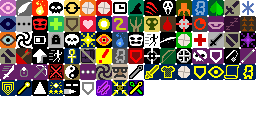
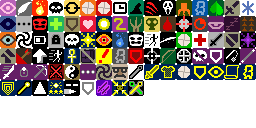
0.3.4_fix2:版本号+1；修复虚幻之刃即死 Bug，制作新物品“空的蜂蜜罐”；开始制作新转职“流转师”

Changed region(s): [[0.5, 0.625, 0.5625, 0.75]]

diff --git a/core/src/main/java/com/shatteredpixel/shatteredpixeldungeon/items/EmptyPot.java b/core/src/main/java/com/shatteredpixel/shatteredpixeldungeon/items/EmptyPot.java
@@ -1,0 +1,131 @@
+/*
+ * Pixel Dungeon
+ * Copyright (C) 2012-2015 Oleg Dolya
+ *
+ * Shattered Pixel Dungeon
+ * Copyright (C) 2014-2025 Evan Debenham
+ *
+ * This program is free software: you can redistribute it and/or modify
+ * it under the terms of the GNU General Public License as published by
+ * the Free Software Foundation, either version 3 of the License, or
+ * (at your option) any later version.
+ *
+ * This program is distributed in the hope that it will be useful,
+ * but WITHOUT ANY WARRANTY; without even the implied warranty of
+ * MERCHANTABILITY or FITNESS FOR A PARTICULAR PURPOSE.  See the
+ * GNU General Public License for more details.
+ *
+ * You should have received a copy of the GNU General Public License
+ * along with this program.  If not, see <http://www.gnu.org/licenses/>
+ */
+
+package com.shatteredpixel.shatteredpixeldungeon.items;
+
+import com.shatteredpixel.shatteredpixeldungeon.Assets;
+import com.shatteredpixel.shatteredpixeldungeon.Dungeon;
+import com.shatteredpixel.shatteredpixeldungeon.actors.Actor;
+import com.shatteredpixel.shatteredpixeldungeon.actors.Char;
+import com.shatteredpixel.shatteredpixeldungeon.actors.hero.Hero;
+import com.shatteredpixel.shatteredpixeldungeon.actors.mobs.Bee;
+import com.shatteredpixel.shatteredpixeldungeon.items.potions.PotionOfHealing;
+import com.shatteredpixel.shatteredpixeldungeon.journal.Catalog;
+import com.shatteredpixel.shatteredpixeldungeon.messages.Messages;
+import com.shatteredpixel.shatteredpixeldungeon.sprites.ItemSpriteSheet;
+import com.shatteredpixel.shatteredpixeldungeon.utils.GLog;
+import com.watabou.noosa.audio.Sample;
+import com.watabou.utils.PathFinder;
+
+import java.util.ArrayList;
+
+public class EmptyPot extends Item {
+
+    public static final String AC_HOLD = "hold";
+
+    {
+        image = ItemSpriteSheet.POT;
+
+        defaultAction = AC_HOLD;
+        usesTargeting = false;
+
+        stackable = true;
+    }
+
+    @Override
+    public ArrayList<String> actions( Hero hero ) {
+        ArrayList<String> actions = super.actions( hero );
+        actions.add( AC_HOLD );
+        return actions;
+    }
+
+    @Override
+    public void execute(final Hero hero, String action ) {
+
+        super.execute( hero, action );
+
+        if (action.equals( AC_HOLD )) {
+
+            Char bee = null;
+            for (int i : PathFinder.NEIGHBOURS8){
+                if (Actor.findChar(hero.pos + i) instanceof Bee){
+                    bee = Actor.findChar(hero.pos + i);
+                    break;
+                }
+            }
+            if (bee != null) {
+                bee.die(Hero.class);
+                Sample.INSTANCE.play( Assets.Sounds.BEE );
+                Honeypot pot = new Honeypot();
+                Catalog.countUse(EmptyPot.class);
+                if (!pot.collect()){
+                    Dungeon.level.drop(pot, hero.pos).sprite.drop();
+                }
+                this.detach(hero.belongings.backpack);
+                hero.spendAndNext(Actor.TICK);
+            } else {
+                GLog.w(Messages.get(this, "no_bee"));
+            }
+        }
+    }
+
+    @Override
+    public boolean isUpgradable() {
+        return false;
+    }
+
+    @Override
+    public boolean isIdentified() {
+        return true;
+    }
+
+    @Override
+    public int value() {
+        return 20 * quantity;
+    }
+
+    @Override
+    public int energyVal() {
+        return 6 * quantity;
+    }
+
+    public static class Recipe extends com.shatteredpixel.shatteredpixeldungeon.items.Recipe.SimpleRecipe {
+
+        private static final int OUT_QUANTITY = 1;
+
+        {
+            inputs =  new Class[]{Honeypot.ShatteredPot.class, PotionOfHealing.class};
+            inQuantity = new int[]{1, 1};
+
+            cost = 0;
+
+            output = EmptyPot.class;
+            outQuantity = OUT_QUANTITY;
+        }
+
+        @Override
+        public Item brew(ArrayList<Item> ingredients) {
+            Catalog.countUse(Honeypot.ShatteredPot.class);
+            return super.brew(ingredients);
+        }
+    }
+
+}

diff --git a/core/src/main/java/com/shatteredpixel/shatteredpixeldungeon/actors/buffs/Switch.java b/core/src/main/java/com/shatteredpixel/shatteredpixeldungeon/actors/buffs/Switch.java
@@ -22,19 +22,30 @@
 package com.shatteredpixel.shatteredpixeldungeon.actors.buffs;
 
 import com.shatteredpixel.shatteredpixeldungeon.items.Item;
+import com.shatteredpixel.shatteredpixeldungeon.items.wands.Wand;
+import com.shatteredpixel.shatteredpixeldungeon.messages.Messages;
 import com.shatteredpixel.shatteredpixeldungeon.ui.BuffIndicator;
+import com.watabou.noosa.Image;
+import com.watabou.utils.Bundle;
 
 public class Switch extends FlavourBuff{
 
     {
         type = buffType.POSITIVE;
+        announced = true;
     }
 
-    public boolean staffUsed = false;
-    public boolean wandUsed = false;
-    public int level = 2;
+    public static float DURATION = 4f;
 
-    public static final float DURATION = 5f;
+    private int level = 0;
+    private Wand wandJustApplied; //we don't bundle this as it's only used right as the buff is applied
+
+    public void setup(Wand wand){
+        if (level < wand.buffedLvl()){
+            this.level = wand.buffedLvl();
+            this.wandJustApplied = wand;
+        }
+    }
 
     @Override
     public void detach() {
@@ -42,9 +53,49 @@ public class Switch extends FlavourBuff{
         Item.updateQuickslot();
     }
 
+    public int level(){
+        return this.level;
+    }
+
+    //this is used briefly so that a wand of magic missile can't clear the buff it just applied
+    public Wand wandJustApplied(){
+        Wand result = this.wandJustApplied;
+        this.wandJustApplied = null;
+        return result;
+    }
+
     @Override
     public int icon() {
-        return BuffIndicator.SWITCH;
+        return BuffIndicator.UPGRADE;
+    }
+
+    @Override
+    public void tintIcon(Image icon) {
+        icon.hardlight(0.2f, 0.6f, 1f);
+    }
+
+    @Override
+    public float iconFadePercent() {
+        return Math.max(0, (DURATION - visualcooldown()) / DURATION);
+    }
+
+    @Override
+    public String desc() {
+        return Messages.get(this, "desc", level(), dispTurns());
+    }
+
+    private static final String LEVEL = "level";
+
+    @Override
+    public void storeInBundle(Bundle bundle) {
+        super.storeInBundle(bundle);
+        bundle.put(LEVEL, level);
+    }
+
+    @Override
+    public void restoreFromBundle(Bundle bundle) {
+        super.restoreFromBundle(bundle);
+        level = bundle.getInt(LEVEL);
     }
 
 }

diff --git a/core/src/main/java/com/shatteredpixel/shatteredpixeldungeon/Badges.java b/core/src/main/java/com/shatteredpixel/shatteredpixeldungeon/Badges.java
@@ -199,7 +199,7 @@ public class Badges {
 		BOSS_SLAIN_3_GUARD,
 		BOSS_SLAIN_3_WARLOCK,
 		BOSS_SLAIN_3_BATTLEMAGE,
-		//BOSS_SLAIN_3_SWITCHER,
+		BOSS_SLAIN_3_SWITCHER,
 		BOSS_SLAIN_3_FREERUNNER,
 		BOSS_SLAIN_3_ASSASSIN,
 		BOSS_SLAIN_3_NINJA,
@@ -852,7 +852,7 @@ public class Badges {
 		thirdBossSubclassBadges.put(HeroSubClass.GUARD, Badge.BOSS_SLAIN_3_GUARD);
 		thirdBossSubclassBadges.put(HeroSubClass.BATTLEMAGE, Badge.BOSS_SLAIN_3_BATTLEMAGE);
 		thirdBossSubclassBadges.put(HeroSubClass.WARLOCK, Badge.BOSS_SLAIN_3_WARLOCK);
-		//thirdBossSubclassBadges.put(HeroSubClass.SWITCHER, Badge.BOSS_SLAIN_3_SWITCHER);
+		thirdBossSubclassBadges.put(HeroSubClass.SWITCHER, Badge.BOSS_SLAIN_3_SWITCHER);
 		thirdBossSubclassBadges.put(HeroSubClass.ASSASSIN, Badge.BOSS_SLAIN_3_ASSASSIN);
 		thirdBossSubclassBadges.put(HeroSubClass.FREERUNNER, Badge.BOSS_SLAIN_3_FREERUNNER);
 		thirdBossSubclassBadges.put(HeroSubClass.NINJA, Badge.BOSS_SLAIN_3_NINJA);
@@ -1035,7 +1035,7 @@ public class Badges {
 	}
 	
 	public static void validateMasteryCombo( int n ) {
-		if (!local.contains( Badge.MASTERY_COMBO ) && n == 10) {
+		if (!local.contains( Badge.MASTERY_COMBO ) && n >= 10) {
 			Badge badge = Badge.MASTERY_COMBO;
 			local.add( badge );
 			displayBadge( badge );

diff --git a/core/src/main/java/com/shatteredpixel/shatteredpixeldungeon/ui/QuickRecipe.java b/core/src/main/java/com/shatteredpixel/shatteredpixeldungeon/ui/QuickRecipe.java
@@ -24,6 +24,7 @@ package com.shatteredpixel.shatteredpixeldungeon.ui;
 import com.shatteredpixel.shatteredpixeldungeon.Dungeon;
 import com.shatteredpixel.shatteredpixeldungeon.ShatteredPixelDungeon;
 import com.shatteredpixel.shatteredpixeldungeon.items.ArcaneResin;
+import com.shatteredpixel.shatteredpixeldungeon.items.EmptyPot;
 import com.shatteredpixel.shatteredpixeldungeon.items.GemPowder;
 import com.shatteredpixel.shatteredpixeldungeon.items.Generator;
 import com.shatteredpixel.shatteredpixeldungeon.items.Item;
@@ -316,6 +317,7 @@ public class QuickRecipe extends Component {
 								return "";
 							}
 						}));
+				result.add(new QuickRecipe( new EmptyPot.Recipe() ));
 				return result;
 			case 3:
 				r = new ExoticPotion.PotionToExotic();

diff --git a/core/src/main/java/com/shatteredpixel/shatteredpixeldungeon/sprites/ItemSpriteSheet.java b/core/src/main/java/com/shatteredpixel/shatteredpixeldungeon/sprites/ItemSpriteSheet.java
@@ -929,6 +929,7 @@ public class ItemSpriteSheet {
 	public static final int BLOB    = QUEST+7;
 	public static final int SHARD   = QUEST+8;
 	public static final int SHIELD  = QUEST+9;
+	public static final int POT     = QUEST+10;
 	static{
 		assignItemRect(DUST,    12, 11);
 		assignItemRect(CANDLE,  12, 12);
@@ -939,6 +940,7 @@ public class ItemSpriteSheet {
 		assignItemRect(BLOB,    10, 9 );
 		assignItemRect(SHARD,   8 , 10);
 		assignItemRect(SHIELD,  15, 16);
+		assignItemRect(POT,     14, 12);
 	}
 
 	private static final int BAGS       = xy(1, 19);  //16 slots

diff --git a/core/src/main/java/com/shatteredpixel/shatteredpixeldungeon/actors/hero/Talent.java b/core/src/main/java/com/shatteredpixel/shatteredpixeldungeon/actors/hero/Talent.java
@@ -1395,9 +1395,9 @@ public enum Talent {
 			case WARLOCK:
 				Collections.addAll(tierTalents, SOUL_EATER, SOUL_SIPHON, NECROMANCERS_MINIONS, CLEAR_YOUR_SOUL, MANA_EATING);
 				break;
-            /*case SWITCHER:
+            case SWITCHER:
                 Collections.addAll(tierTalents, SHARED_ARCANA, SWITCH_MASTER, RELAY_RECHARGING, ENERGY_RECYCLING);
-                break;*/
+                break;
 			case ASSASSIN:
 				Collections.addAll(tierTalents, ENHANCED_LETHALITY, ASSASSINS_REACH, TERRORIST_ATTACK, CHARGE_RECYCLING, HASHASHINS);
 				break;

diff --git a/core/src/main/java/com/shatteredpixel/shatteredpixeldungeon/actors/hero/HeroClass.java b/core/src/main/java/com/shatteredpixel/shatteredpixeldungeon/actors/hero/HeroClass.java
@@ -97,7 +97,7 @@ import com.zrp200.scrollofdebug.ScrollOfDebug;
 public enum HeroClass {
 
 	WARRIOR( HeroSubClass.BERSERKER, HeroSubClass.GLADIATOR, HeroSubClass.GUARD),
-	MAGE( HeroSubClass.BATTLEMAGE, HeroSubClass.WARLOCK ),
+	MAGE( HeroSubClass.BATTLEMAGE, HeroSubClass.WARLOCK, HeroSubClass.SWITCHER),
 	ROGUE( HeroSubClass.ASSASSIN, HeroSubClass.FREERUNNER, HeroSubClass.NINJA),
 	HUNTRESS( HeroSubClass.SNIPER, HeroSubClass.WARDEN ),
 	DUELIST( HeroSubClass.CHAMPION, HeroSubClass.MONK ),

diff --git a/core/src/main/java/com/shatteredpixel/shatteredpixeldungeon/items/weapon/melee/BladeOfUnreal.java b/core/src/main/java/com/shatteredpixel/shatteredpixeldungeon/items/weapon/melee/BladeOfUnreal.java
@@ -89,7 +89,7 @@ public class BladeOfUnreal extends MeleeWeapon {
                 defender.sprite.showStatusWithIcon(CharSprite.NEGATIVE, String.valueOf(damage), FloatingText.REALITY);
                 damage = ShieldBuff.processDamage(defender, damage, this);
 
-                if (defender.isAlive()) {
+                if (defender.HP <= damage) {
                     defender.die(this);
                 } else {
                     defender.HP -= damage;

diff --git a/core/src/main/java/com/shatteredpixel/shatteredpixeldungeon/items/Recipe.java b/core/src/main/java/com/shatteredpixel/shatteredpixeldungeon/items/Recipe.java
@@ -211,6 +211,7 @@ public abstract class Recipe {
 	private static Recipe[] twoIngredientRecipes = new Recipe[]{
 		new Blandfruit.CookFruit(),
 		new Bomb.EnhanceBomb(),
+		new EmptyPot.Recipe(),
 		new UnstableBrew.Recipe(),
 		new CausticBrew.Recipe(),
 		new ElixirOfArcaneArmor.Recipe(),

diff --git a/core/src/main/java/com/shatteredpixel/shatteredpixeldungeon/items/wands/Wand.java b/core/src/main/java/com/shatteredpixel/shatteredpixeldungeon/items/wands/Wand.java
@@ -438,7 +438,7 @@ public abstract class Wand extends Item {
 				maxLvl = Dungeon.hero.belongings.getItem(MagesStaff.class).level();
 			}
 			if (buff1 != null){
-				lvl = Math.min(lvl + buff1.level, maxLvl);
+				//lvl = Math.min(lvl + buff1.level, maxLvl);
 			}
 		}
 		return lvl;

diff --git a/core/src/main/java/com/shatteredpixel/shatteredpixeldungeon/actors/hero/HeroSubClass.java b/core/src/main/java/com/shatteredpixel/shatteredpixeldungeon/actors/hero/HeroSubClass.java
@@ -39,7 +39,7 @@ public enum HeroSubClass {
 
 	BATTLEMAGE(HeroIcon.BATTLEMAGE),
 	WARLOCK(HeroIcon.WARLOCK),
-	//SWITCHER(HeroIcon.SWITCHER),
+	SWITCHER(HeroIcon.SWITCHER),
 	//SPELLCASTER
 	
 	ASSASSIN(HeroIcon.ASSASSIN),
